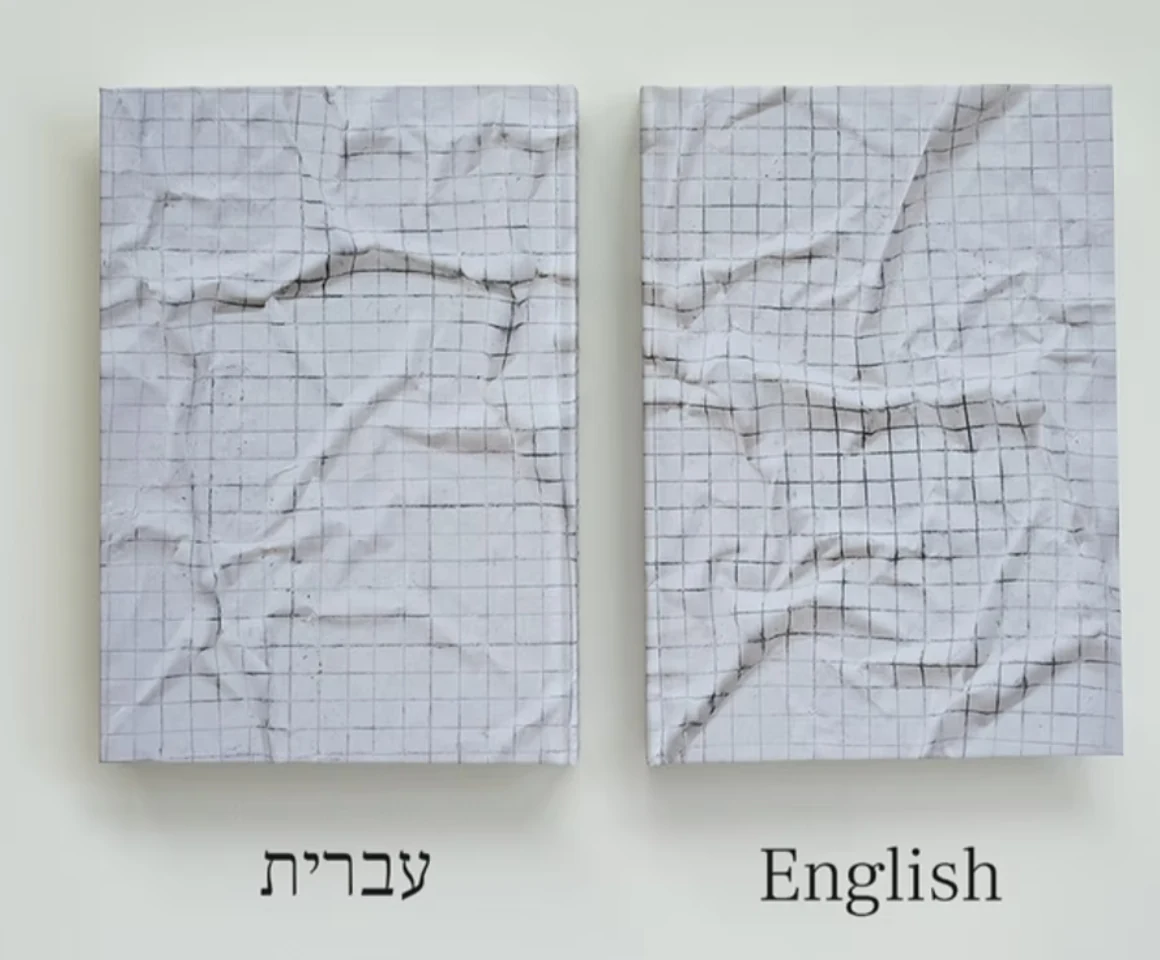
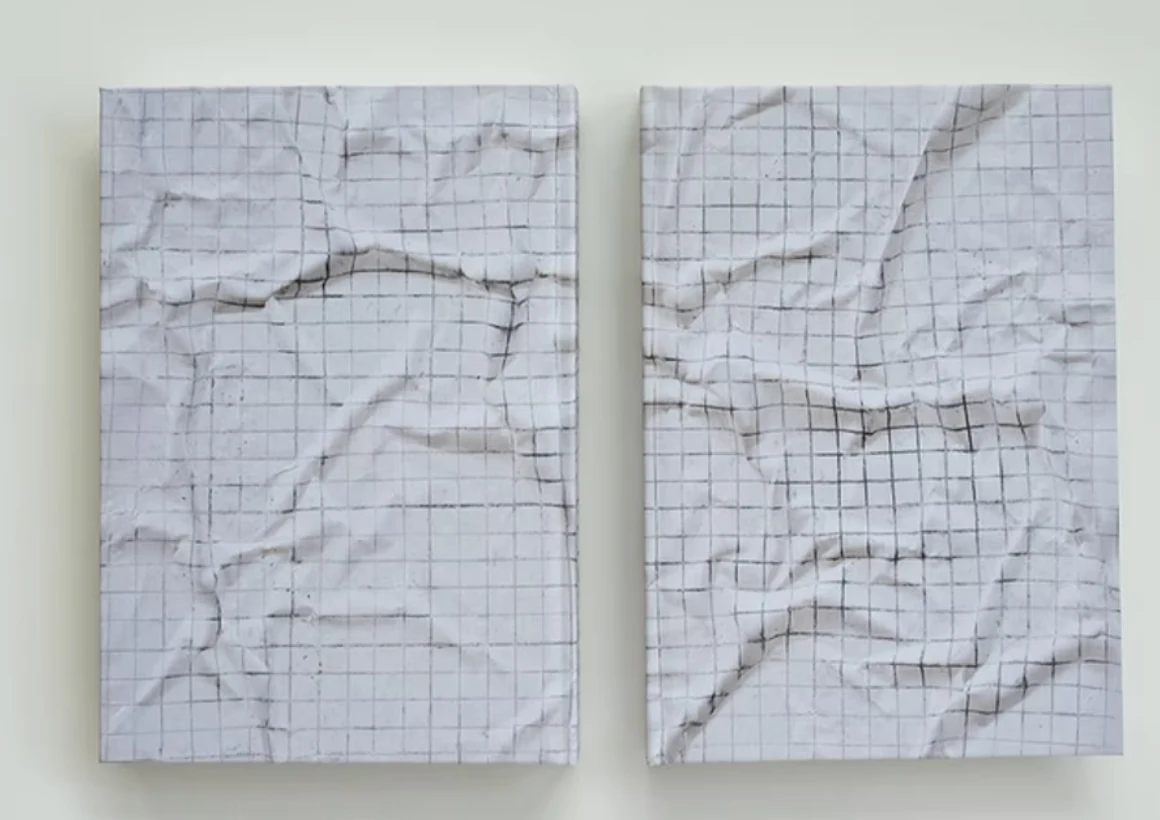
The Living Room: the two books without the language labels

Changed region(s): [[0.031, 0.061, 0.9931, 1.0], [0.3724, 0.6707, 0.4034, 0.7012]]

diff --git a/index.html b/index.html
@@ -1162,7 +1162,7 @@ a.film__play { text-decoration: none; }
         <div class="film"><div class="film__frame"><video src="assets/flytrex-sky.mp4" poster="assets/flytrex-poster.webp" width="1280" height="720" controls preload="none" playsinline aria-label="Flytrex Sky, the promo film I wrote, 1 minute 57 seconds"></video></div></div>
         <h3 class="display">The Living Room</h3>
         <p>I translated The Living Room by the artist Netai Halup from Hebrew into English: a book about recollection, written in small diary excerpts. 2025&ndash;26.</p>
-        <figure class="paste" style="max-width:24rem"><button class="paste__btn" type="button" data-zoom><img src="assets/book-living-room.webp" width="1160" height="960" alt="The Living Room, two hardback editions side by side, Hebrew and English, each bound in a cover printed with crumpled squared paper" loading="lazy"></button><figcaption class="cap">The book, in Hebrew and in English</figcaption></figure>
+        <figure class="paste" style="max-width:24rem"><button class="paste__btn" type="button" data-zoom><img src="assets/book-living-room.webp" width="1160" height="820" alt="The Living Room, the Hebrew and English editions side by side, each bound in a cover printed with crumpled squared paper" loading="lazy"></button><figcaption class="cap">The book, in Hebrew and in English</figcaption></figure>
         <p class="quiet">For the same book I translated his conversation with Smadar Keren, director and curator of the Beit Uri and Rami Nehoshtan Museum.</p>
       </div>
     </div>
@@ -1267,7 +1267,7 @@ a.film__play { text-decoration: none; }
     next:    { client: 'You',               job: 'Your deck or brand',               year: '',           round: '',            status: 'Write to me' }
   };
   // Measured from each sheet's image files by tools/build_press.py.
-  var INKS = {"top":["#093927","#ffffff","#9caaa3","#5c7168","#315044"],"bonfix":["#f6f5ee","#113a2c","#cde2d2","#95a499"],"rounds":["#f6f5ee","#091611","#809a9a","#d59f86","#d0b9b0","#315051","#806d60"],"logo":["#f7f6f0","#093927","#52adc3","#2191aa","#578a94","#d0dad6"],"mint":["#3e331f","#796133","#a9782c","#e19f34","#0f1611","#5dd88e","#f4d183"],"bina":["#f4ebdc","#492b2e","#ad5248","#fadc90","#84568d","#7195af","#50da8e"],"method":["#f6f5ee","#121f16","#d2d2ca","#324853","#737a75","#afb4ae"],"clinic":["#ffffff","#876e6e","#bdddeb","#5a4b55","#82a1b2","#b35e42","#cf9b89"],"caption":["#f1f0ec","#0b201e","#0db8aa","#cf593d","#74c7bf"],"bidder":["#0d2329","#ffffff","#cff0fc","#42221c","#225463","#746654","#8cb5be"],"mailers":["#d0eef9","#ffffff","#12313b","#285a6a","#8d6b52","#4d332a","#a99477"],"writer":["#c5ccd4","#a7abb1","#83868a"]};
+  var INKS = {"top":["#093927","#ffffff","#9caaa3","#5c7168","#315044"],"bonfix":["#f6f5ee","#113a2c","#cde2d2","#95a499"],"rounds":["#f6f5ee","#091611","#809a9a","#d59f86","#d0b9b0","#315051","#806d60"],"logo":["#f7f6f0","#093927","#52adc3","#2191aa","#578a94","#d0dad6"],"mint":["#3e331f","#796133","#a9782c","#e19f34","#0f1611","#5dd88e","#f4d183"],"bina":["#f4ebdc","#492b2e","#ad5248","#fadc90","#84568d","#7195af","#50da8e"],"method":["#f6f5ee","#121f16","#d2d2ca","#324853","#737a75","#afb4ae"],"clinic":["#ffffff","#876e6e","#bdddeb","#5a4b55","#82a1b2","#b35e42","#cf9b89"],"caption":["#f1f0ec","#0b201e","#0db8aa","#cf593d","#74c7bf"],"bidder":["#0d2329","#ffffff","#cff0fc","#42221c","#225463","#746654","#8cb5be"],"mailers":["#d0eef9","#ffffff","#12313b","#285a6a","#8d6b52","#4d332a","#a99477"],"writer":["#bfc4ce","#a3a4a1"]};
   // The press's own bar: the four process colours, their three overprints, and tints.
   var PROCESS = ['#00a0e3', '#e5007d', '#ffe500', '#141414', '#e2231a', '#00a651', '#2e3192', '#7fcff1', '#f27fbe', '#fff27f', '#8a8a8a', '#bfe7f8', '#f8bfde', '#c8c8c8'];
 
